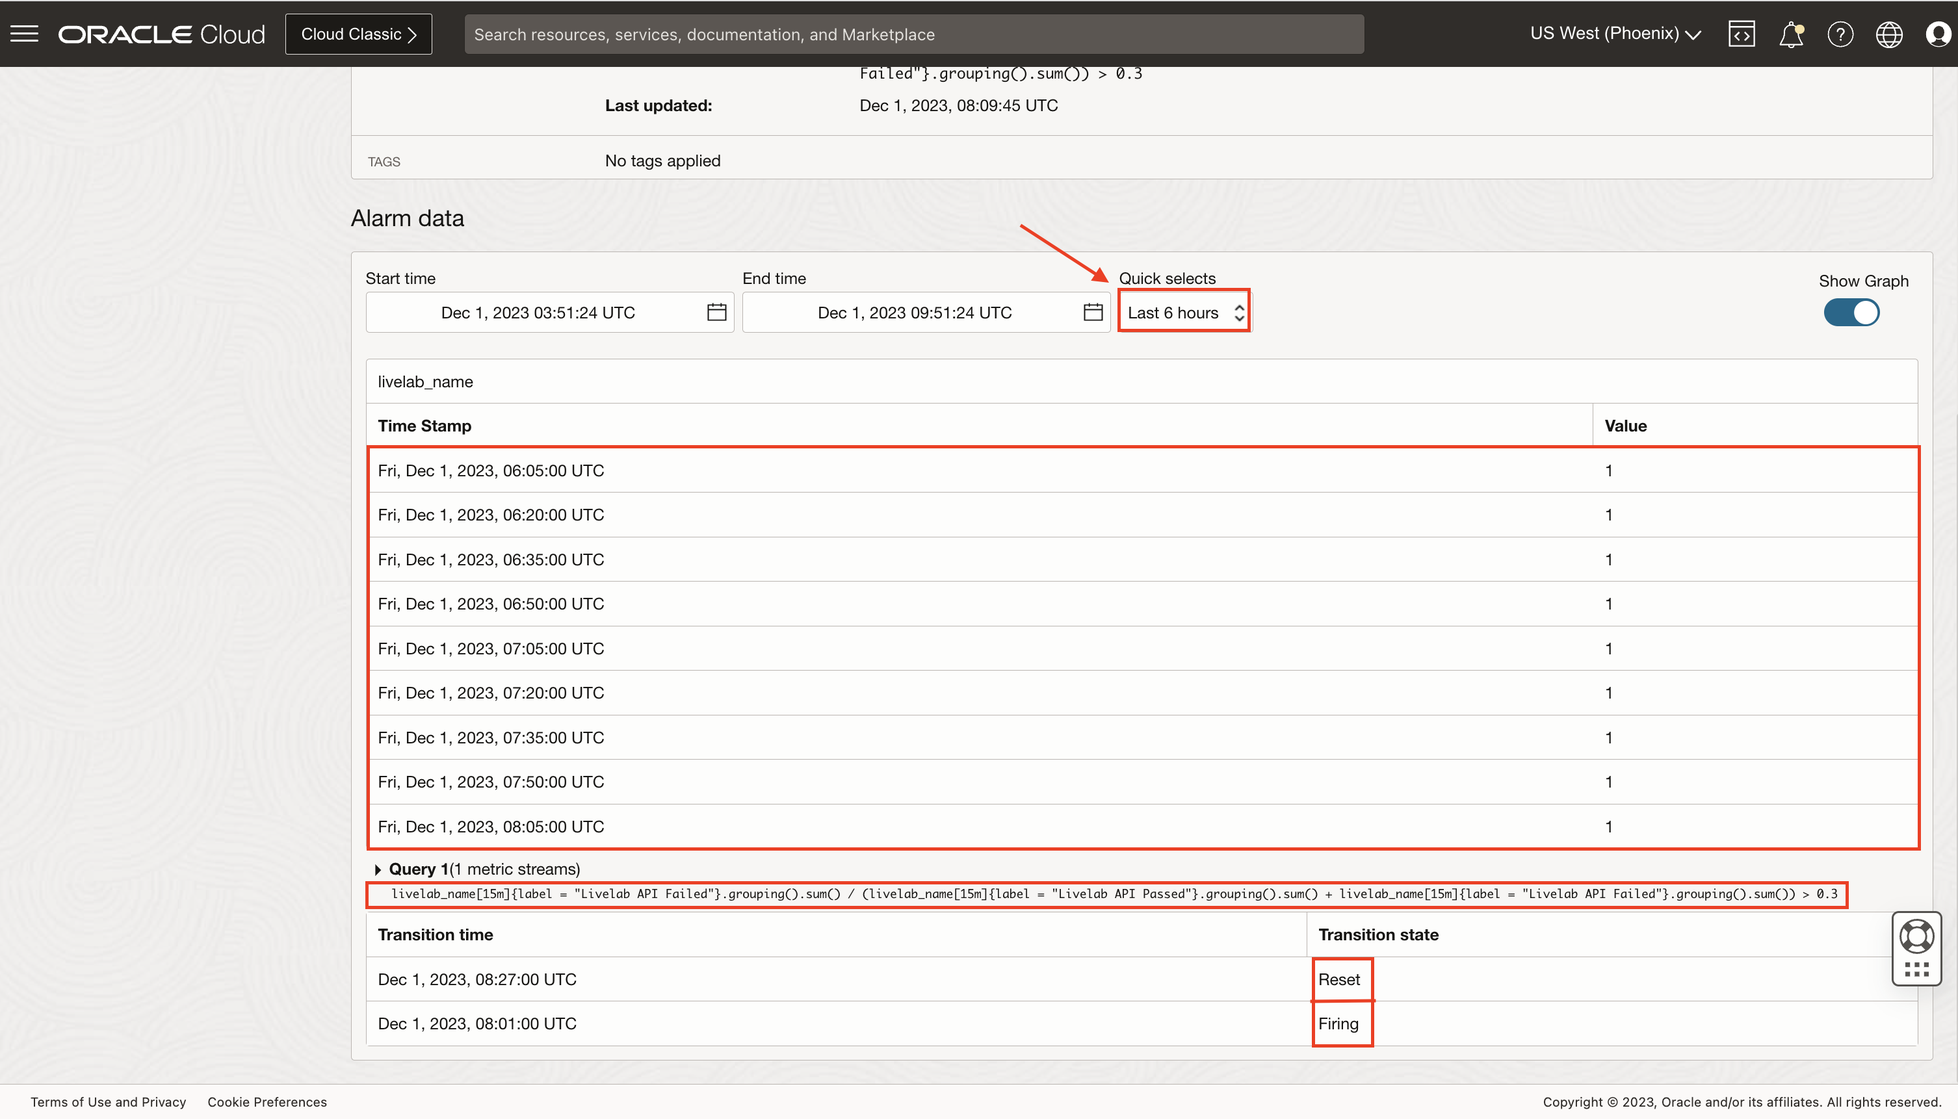
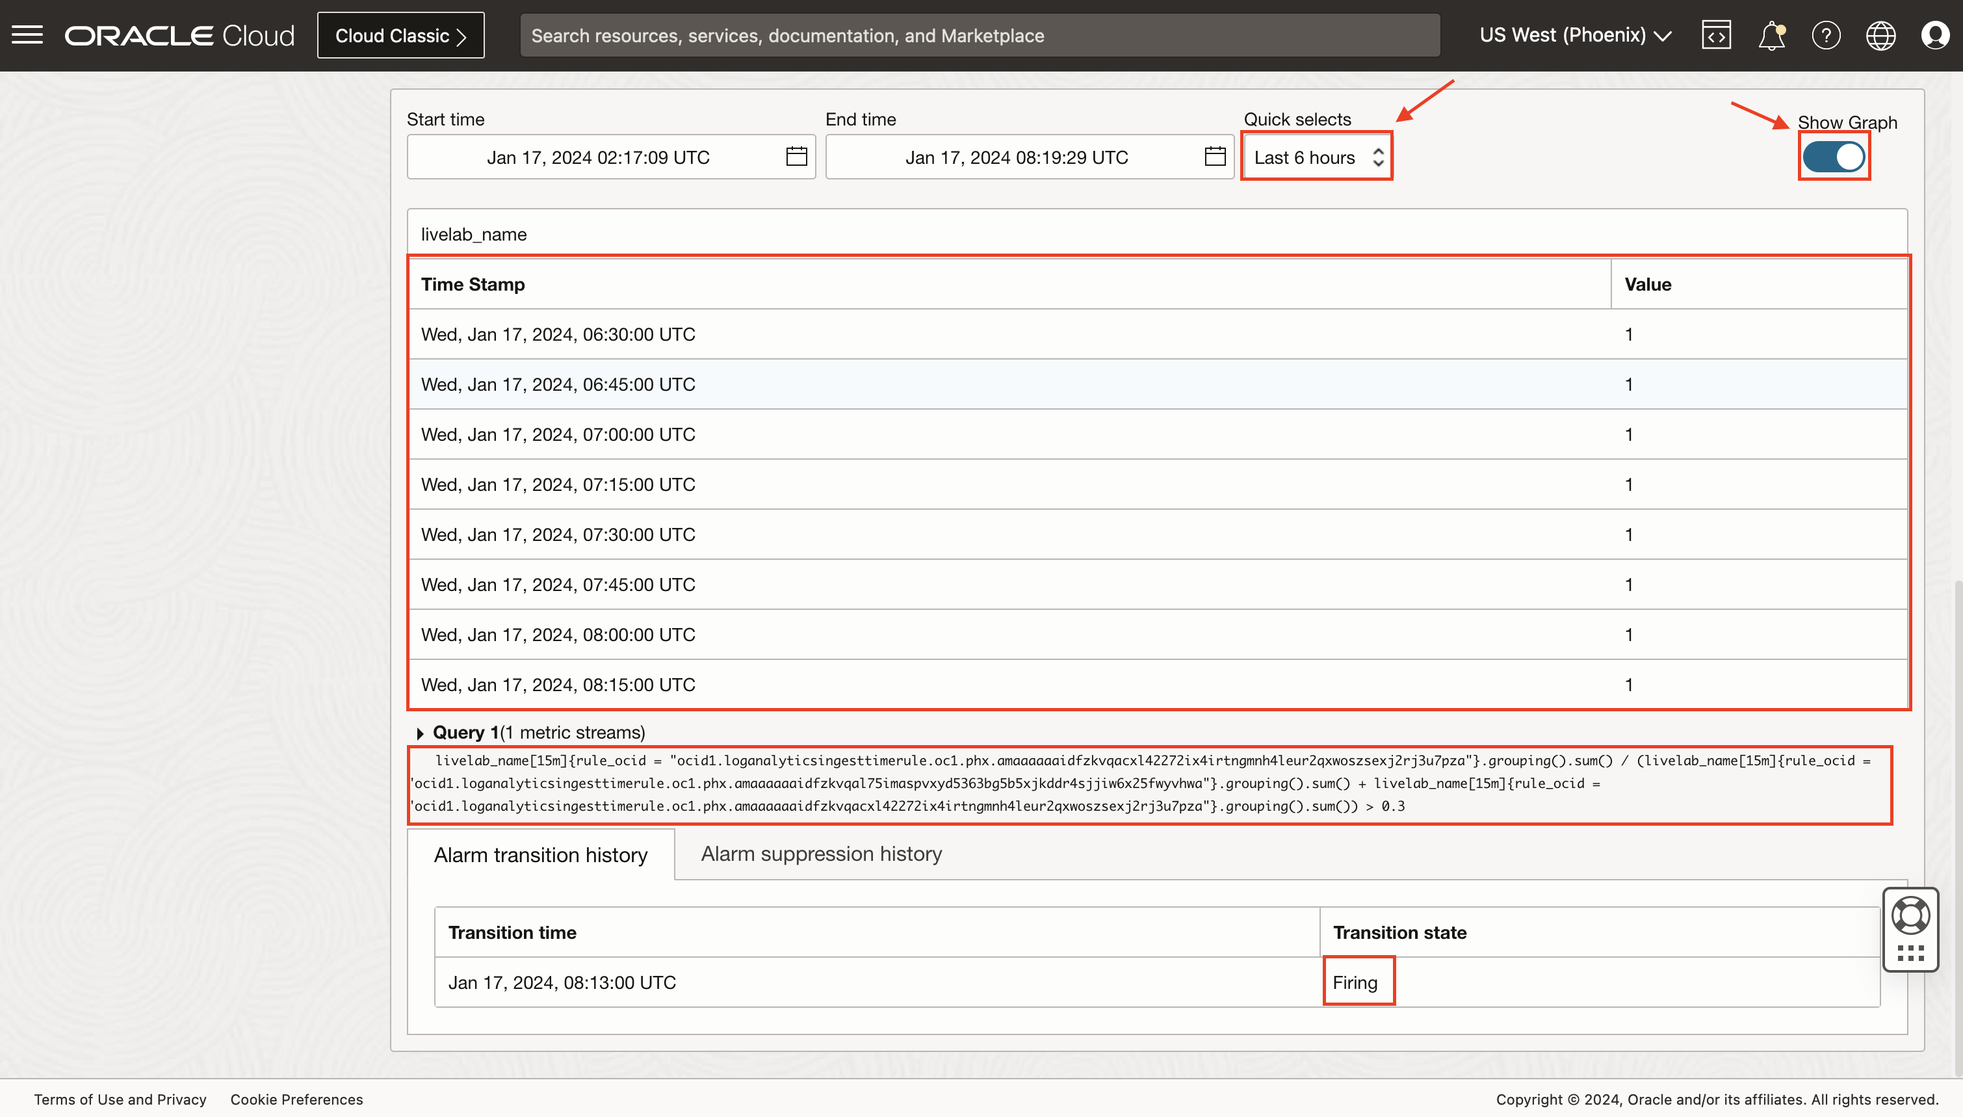
Alarm changes

diff --git a/logging-analytics/alarms-detection-rules-la/create-and-verify-alarm/create-and-verify-alarm.md b/logging-analytics/alarms-detection-rules-la/create-and-verify-alarm/create-and-verify-alarm.md
@@ -31,43 +31,34 @@ The detected events can emit metrics to the Monitoring service. Managing alarms 
 
 ## Task 2: Create an Alarm
 
-1. There are 2 two ways to navigate to **Create Alarm Page**:
+1. Navigate to **Create Alarm Page**:
 
-    ### **Option 1:**
+    * From **Navigation Menu** ![Navigation menu](images/navigation-menu.png) > **Observability & Management** > **Logging Analytics** > **Administration** > **Detection Rules box** > **Center of box**.
+    ![Navigate to administration overview](images/navigate-administration-overview.png)
+    ![Navigate to detection rules](images/navigate-detection-rule.png)
 
-    From **Navigation Menu** ![Navigation menu](images/navigation-menu.png) > **Observability & Management** > **Monitoring** > **Alarm Status**.
+    * For example, select **Livelab\_detection\_rule**, made in [How do I create and trigger an ingest time detection rule in Logging Analytics?](?lab=sprint-create-and-trigger-ingest-time-detection-rule).
+        ![detection-rule-page](images/detection-rule-page.png)
 
-    * Here, all the alarms fired by the events in Logging Analytics are consolidated. The table displays the alarm name, its severity, the time when it was triggered, and whether it is suppressed or not.
-    * Select the **Compartment** of your alarms in the **Scope section**.
-    * Click on the **Create Alarm**. The Create Alarm dialog box opens.
-    ![Navigate to alarm](images/alarm-navigation.gif)
+    * Click on the **Create Alarm** button, as seen in the figure. The Create Alarm dialog box opens.
+    ![Create alarm button](images/create-alarm-button.png)
 
-    ### **Option 2:**
+2. Specify the **Alarm name**. For example, **"Livelab_alarm"**.
 
-    * After creating a detection rule, you will land on detection rules page, where you will able to see all the detection rules. Click on the desired detection rule. You can refer to [Create and Trigger a Ingest Time Detection Rule](?lab=create-and-trigger-ingest-time-detection-rule#Task3:CreateIngestTimeDetectionRule) or [Create a Scheduled Search Detection Rule](?lab=create-scheduled-search-detection-rule).
-
-    * For example, select **Livelab\_detection\_rule**, made in [Create and Trigger a Ingest Time Detection Rule](?lab=create-and-trigger-ingest-time-detection-rule#Task3:CreateIngestTimeDetectionRule).
-    ![detection-rule-page](images/detection-rule-page.png)
-
-2. Click on the **Create Alarm** button, as seen in the figure. The Create Alarm dialog box opens.
-![Create alarm button](images/create-alarm-button.png)
-
-3. Specify the **Alarm name**. For example, **"Livelab_alarm"**.
-
-4. For **Alarm severity**, select the perceived type of response required when the alarm is in the firing state. There are four options for it:
+3. For **Alarm severity**, select the perceived type of response required when the alarm is in the firing state. There are four options for it:
     * Critical (by default)
     * Error
     * Warning
     * Info
 
-5. (Optional) For **Alarm body**, enter the human-readable content of the notification.
+4. (Optional) For **Alarm body**, enter the human-readable content of the notification.
 It is recommended to guide operators in resolving the alarm condition.
 
-6. (Optional) In the **Tags (optional)** area, enter one or more tags for the alarm.
+5. (Optional) In the **Tags (optional)** area, enter one or more tags for the alarm.
 If you have permission to create a resource, you can also apply free-form tags to that resource. To apply a defined tag, you must have permission to use the tag namespace. If you're unsure whether to apply tags, skip this option or ask an administrator. You can apply tags later.
 ![Define alarm and tags](images/define-alarm-and-tags.png)
 
-7. In the **Metric description** area, enter values to specify the metric to evaluate for the alarm.
+6. In the **Metric description** area, enter values to specify the metric to evaluate for the alarm.
 
     1. **Compartment:** Select the compartment containing the resources that emit the metrics evaluated by the alarm. The selected compartment is also the storage location of the alarm. By default, the first accessible compartment is selected.
     2. **Metric namespace:** Select the service or application that emits the metrics for the resources you want to monitor. The Metric namespace list shows metric namespaces for the selected compartment. You selected **"**livelabmetricnamespace"**, which you created while creating a detection rule.
@@ -90,21 +81,24 @@ If you have permission to create a resource, you can also apply free-form tags t
 
     ![Metric description](images/metric-description.png)
 
-8. In the **Metric dimensions** area, specify optional filters to narrow the metric data that's evaluated.
+7. In the **Metric dimensions** area, specify optional filters to narrow the metric data that's evaluated.
     * **Dimension value:** Select the value to use for the specified dimension.
     * **Additional dimension:** Add another name-value pair for a dimension, as needed.
     * **Aggregate metric streams:** Select this check box to return the combined value of all metric streams for the selected statistic.
-Let's say we provide dimension name as **"label"**, which has Dimension value as **"AuthError_Livelabs"**.
-![metric-dimension](images/metric-dimension.png)
 
-9. In the **Trigger rule** area, specify the condition that must be satisfied for the alarm to be in the firing state.
+    Let's say we provide an extra dimension name as **"label"**, which has Dimension value as **"AuthError_Livelabs"**.
+    ![Metric dimension](images/metric-dimension.png)
+
+    >**NOTE :** Metric dimension must have **"rule_ocid"** as one dimension or else this alarm will not be of Logging Analytics and will not show in firing alarm page.
+
+8. In the **Trigger rule** area, specify the condition that must be satisfied for the alarm to be in the firing state.
     * **Operator:** Select the operator to use in the condition threshold.
     * **Value:** Enter the value to use for the condition threshold. For the between and outside operators, enter both values for the range.
     * **Trigger delay minutes:** Enter the number of minutes the condition must be maintained before the alarm is in the firing state.
     Let's say, you have selected operator as **"greater than or equal"**, value as **"30"**, and trigger delay minutes as **"1"**. So, the alarm will be triggered when the count of "AuthError_Livelabs" is greater than or equal to 30 with a delay of 1 minute.
 ![Trigger rule](images/trigger-rule.png)
 
-10. In the **Destination area** under **Define alarm notifications**, select the provider of the destination to use for alarm notifications.
+9. In the **Destination area** under **Define alarm notifications**, select the provider of the destination to use for alarm notifications.
     1. **Destination service:** Select one of the following values:
         * **Notifications:** Send alarm notifications to a topic. Each subscription in the topic receives an alarm message.
         * **Streaming:** Send alarm messages to a stream.
@@ -124,22 +118,22 @@ Let's say we provide dimension name as **"label"**, which has Dimension value as
             6. SMS: Select the country for the phone number, and then enter the phone number.
 ![Define alarm notifications](images/define-alarm-notifications.png)
 
-11. For **Message grouping**, select one of the following options.
+10. For **Message grouping**, select one of the following options.
     * **Group notifications across metric streams:** Collectively track metric status across all metric streams. Send a message when metric status across all metric streams changes.
     * **Split notifications per metric stream:** Individually track metric status by metric stream. Send a message when metric status for each metric stream changes.
 
-12. For **Message Format**, select an option for the appearance of messages you receive from this alarm (for Notifications only).
+11. For **Message Format**, select an option for the appearance of messages you receive from this alarm (for Notifications only).
     * **Send formatted messages:** Simplified, user-friendly layout. To view supported subscription protocols and message types for formatted messages (options other than Raw), see Friendly formatting.
     * **Send Pretty JSON messages (raw text with line breaks):** JSON with new lines and indents.
     * **Send raw messages:** Raw JSON blob.
 
-13. (Optional) If you want to receive notifications at regular intervals when the alarm is firing, select **Repeat notification?** and then select **Notification frequency** to wait before resending the notification.
+12. (Optional) If you want to receive notifications at regular intervals when the alarm is firing, select **Repeat notification?** and then select **Notification frequency** to wait before resending the notification.
 (Optional) To suppress evaluations and notifications for a specified length of time, select **Suppress notifications**. This option helps avoid alarm notifications during system maintenance periods. Specify a start time, end time, and an optional description.
 
-14. (Optional) To save the alarm without starting to evaluate metric data, clear the **Enable this alarm?** check box.
+13. (Optional) To save the alarm without starting to evaluate metric data, clear the **Enable this alarm?** check box.
 ![Message and notification](images/message-and-notification.png)
 
-15. Click **Save alarm**.
+14. Click **Save alarm**.
 
 The **Alarm Definitions** page lists the new alarm. If the alarm is enabled, then Monitoring begins evaluating the configured metric, sending alarm messages when the metric data satisfies the trigger rule.
 
@@ -190,15 +184,18 @@ To verify the alarm, you need to upload log records, which will be parsed by the
 
 ## Task 4: Verify an Alarm
 
-1. From **Navigation Menu** ![navigation-menu](images/navigation-menu.png) > **Observability & Management** > **Monitoring** > **Alarm Definitions**.
-![alarm-def-navigation](images/alarm-def-navigation.png)
+1. From **Navigation Menu** ![Navigation menu](images/navigation-menu.png) > **Observability & Management** > **Logging Analytics** > **Administration** > **Alarms box**.
+    ![Alarms information](images/alarms-info.png)
 
-2. Click on **Livelab\_alarm**.
+    >**NOTE :** Wait for 1-2 minutes, to trigger an alarm after uploading the file, keep on refreshing the page.
+
+2. **Firing alarm** page will appear. It will show all fired alarms of Logging Analytics. Click on **Livelab\_alarm**.
+    ![Firing alarm information](images/firing-alarm-info.png)
 
 3. All the information regarding the alarm will be shown there. You can change **Quick select** based on the requirement. The graph will show the details. You can hover over the graph know in details. Click on **Show Data Table** to see the timestamp and value.
-![Triggered alarm graph](images/triggered-alarm-graph.png)
+![Triggered alarm graph](images/triggered-alarm.png)
 
-4. Details of logs can be seen from the last two hours. Your threshold value was 30. The value of **AuthError_Livelabs** label can be seen every 15 minutes from 12:15:00 UTC to 14:00:00 UTC. Initially, the alarm was in **Ok** state, then at 13:57:00 UTC, the alarm went into firing state. After one minute of delay, it was reset and changed to **Ok** state, which means it is ready to get triggered.
+4. Details of logs can be seen from the last six hours. Your threshold value was 30. The value of **AuthError_Livelabs** label can be seen every 15 minutes from 09:00:00 UTC to 11:15:00 UTC. Initially, the alarm was in **Ok** state, then the alarm went into firing state.
 ![Triggered alarm table](images/triggered-alarm-table.png)
 
 5. Hence, the alarm is verified.

diff --git a/logging-analytics/alarms-detection-rules-la/unsuccessful-food-orders/unsuccessful-food-orders.md b/logging-analytics/alarms-detection-rules-la/unsuccessful-food-orders/unsuccessful-food-orders.md
@@ -71,44 +71,48 @@ Create two ingest time detection rules, as discussed in [Create and Trigger a In
     * **Rule name:** Livelab Detect Passed API.
     * **Metric Namespace:** livelabmetricnamespace.
     * **Metric Name:** livelab_name.
-![detection-rule-1](images/detection-rule-1.png)
+![Passed APIs detection rule](images/passed-apis-detection-rule.png)
     * Click on **Create detection rule**.
 
 2. Other rule for detecting **Livelab Detect Failed API**. Fields to be filled in Create detection rule page:
     * **Rule name:** Livelab Detect Failed API.
     * **Metric Namespace:** livelabmetricnamespace.
     * **Metric Name:** livelab_name.
-![detection-rule-2](images/detection-rule-2.png)
+![Failed APIs detection rule](images/failed-apis-detection-rule.png)
     * Click on **Create detection rule**.
 
-3. Make sure that Metric Namespace and Metric Name remains the same throughout the task, or else results may not appear.
+>**NOTE :** Make sure that Metric Namespace and Metric Name remains the same throughout the task, or else results may not appear.
 
 ## Task 3: Create an Alarm
 
-1. Navigate to **Create Alarm page** as discussed in Option 1 of [Create an Verify an Alarm](?lab=create-and-verify-alarm#Task2:CreateanAlarm).
+1. Navigate to **Create Alarm page** as discussed in [Create an Verify an Alarm](?lab=create-and-verify-alarm#Task2:CreateanAlarm) using any of the detection rule made above.
 
 2. Provide alarm name as **Livelab Failed APIs more than 30%**. Click on **Switch to Advanced Mode**, as a complex query will be required, using two labels from the detection rule to create this alarm.
-![alarm-adv-mode](images/alarm-adv-mode.png)
+![Alarm advanced mode](images/alarm-adv-mode.png)
 
 3. Make sure that the compartment and metric name are the same as given for detection rules. Inside the query editor, paste this query:
 
     ```text
-    <copy>livelab_name[15m]{label = "Livelab API Failed"}.grouping().sum() / (livelab_name[15m]{label = "Livelab API Passed"}.grouping().sum() + livelab_name[15m]{label = "Livelab API Failed"}.grouping().sum()) > 0.3</copy>
+    <copy>livelab_name[15m]{rule_ocid = "<Detection rule ocid detecting Livelab API Failed label>"}.grouping().sum() / (livelab_name[15m]{rule_ocid = "<Detection rule ocid detecting Livelab API Passed label>"}.grouping().sum() + livelab_name[15m]{rule_ocid = "<Detection rule ocid detecting Livelab API Failed label>"}.grouping().sum()) > 0.3</copy>
     ```
+
+    Copy the value of ocids of respective detection rule and replace it in above query. The value of ocid can be found in the **Detection Rule** created.
+
+4. From **Navigation Menu** > **Observability & Management** > **Logging Analytics** > **Administration** > **Detection Rules box** > **Center of box** > **Respective Detection rule** > **Copy the OCID**.
+
+    ![Detection rule ocid](images/detection-rule-ocid.png)
 
     This query is the condition when the alarm will trigger. Query implies if the total no of log records with failed labels divided by the total no of log records (failed labels and passed labels) is greater than 0.3 i.e. more than 30%, then the alarm will trigger.
 
-    ![alarm-query](images/alarm-query.png)
+    ![Alarm query](images/alarm-query.png)
 
-    Currently, no data is uploaded after creating the alarm, so the graph is empty. You can have a table view by clicking on **Show Data Table**.
+5. Now, **Define alarm notification** and select the **Destination service**, **compartment**, and **Topic**. If there are no existing topics, you can create a new one by clicking on **Create a topic**. For more information regarding these options, you can refer [Create an Verify an Alarm](?lab=create-and-verify-alarm#Task2:CreateanAlarm).
+![Alarm end](images/alarm-end.png)
 
-4. Now, **Define alarm notification** and select the **Destination service**, **compartment**, and **Topic**. If there are no existing topics, you can create a new one by clicking on **Create a topic**. For more information regarding these options, you can refer [Create an Verify an Alarm](?lab=create-and-verify-alarm#Task2:CreateanAlarm).
-![alarm-end](images/alarm-end.png)
+6. Click on **Save alarm**. **Alarm Definitions page** will show up, providing the details of alarm, with a **Ok** mark.
+![Alarm before triggering](images/alarm-before-triggering.png)
 
-5. Click on **Save alarm**. **Alarm Definitions page** will show up, providing the details of alarm, with a **Ok** mark.
-![alarm-before-triggering](images/alarm-before-triggering.png)
-
-6. Now, your alarm is ready. To test it, you will have to give some log records.
+7. Now, your alarm is ready. To test it, you will have to give some log records.
 
 ## Task 4: Upload a File
 
@@ -117,7 +121,7 @@ Create two ingest time detection rules, as discussed in [Create and Trigger a In
 2. You will use log records on which the **livelab\_mushop\_api\_logs** parser is created.
 
 3. Navigate to **OCI Cloud Shell**, as shown in the image.
-![oci-cloud-shell](images/oci-cloud-shell.png)
+![OCI cloud shell](images/oci-cloud-shell.png)
 
 4. Run the following commands in **OCI Cloud Shell**.
 
@@ -161,11 +165,19 @@ Create two ingest time detection rules, as discussed in [Create and Trigger a In
 
 1. The log records will also be parsed with the provided parser as the file is processed. All logs will be labelled as **Livelab Failed API** or **Livelab Passed API**. The alarm will check all the logs in interval of 15mins, runs it query, and be triggered as soon as the queries satisfy.
 
-2. Open **Navigation Menu** ![navigation-menu](images/navigation-menu.png) > **Observability & Management** > **Monitoring** > **Alarm Definitions** > **Livelab Failed APIs more than 30%** alarm. You will notice, the alarm has changed its state from **Ok** to **Firing**. A graph can be seen under **Alarm data** as shown in image. Click on **Show Data Table**
-    ![alarm-triggered-graph](images/alarm-triggered-graph.png)
+2. From **Navigation Menu** ![Navigation menu](images/navigation-menu.png) > **Observability & Management** > **Logging Analytics** > **Administration** > **Alarms box**.
+    ![Alarms information](images/alarms-info.png)
 
-3. From data table, you can clearly observe, the alarm has been triggered 5 times, in interval of 15 minutes, in last hour. Click on **Quick selects** dropdown, and change time to **Last 6 hours**. By observing the table, it can be observed that for the uploaded logs, the alarm triggered 9 times, and sent a notification to selected destination.
-    ![alarm-triggered-table](images/alarm-triggered-table.png)
+    >**NOTE :** Wait for 1-2 minutes, to trigger an alarm after uploading the file, keep on refreshing the page.
+
+3. **Firing alarm** page will appear. It will show all fired alarms of Logging Analytics. Click on **Livelab Failed APIs more than 30%** alarm.
+    ![Firing alarm information](images/firing-alarm-info.png)
+
+4. The alarm has changed its state from **Ok** to **Firing**. A graph can be seen under **Alarm data** as shown in image. Click on **Show Data Table**
+    ![Fired alarm](images/fired-alarm.png)
+
+5. Click on **Quick selects** dropdown, and change time to **Last 6 hours**. From data table, you can clearly observe, the alarm has been triggered 8 times, in interval of 15 minutes, in last 6 hours and sent a notification to selected destination.
+    ![Alarm triggered table](images/alarm-triggered-table.png)
 
     You can also observe, that the alarm was initially in **Ok** state, then it went to **Firing** state, after some time, it will go to **Reset** state, waiting to go to **Firing** state again.
 

diff --git a/logging-analytics/alarms-detection-rules-la/create-and-trigger-ingest-time-detection-rule/create-and-trigger-ingest-time-detection-rule.md b/logging-analytics/alarms-detection-rules-la/create-and-trigger-ingest-time-detection-rule/create-and-trigger-ingest-time-detection-rule.md
@@ -49,8 +49,9 @@ Let's say you want to detect whenever you have an authentication error in your l
 
 You need a log source and associated entity to create a detection rule. You also need a specific parser corresponding to the type of logs that will be collected and parsed. You also need a label associated with particular content of log records so you can create a detection rule on that specific label.
 
-1. From **Navigation Menu** ![Navigation menu](images/navigation-menu.png) > **Observability & Management** > **Logging Analytics** > **Administration** > **Detection Rules box** > **Create Detection Rule**.
-![Navigate to detection rules](images/detection-rules-navigation.gif)
+1. From **Navigation Menu** ![Navigation menu](images/navigation-menu.png) > **Observability & Management** > **Logging Analytics** > **Administration** > **Detection Rules box** > **Create rule**.
+![Navigate to administration overview](images/navigate-administration-overview.png)
+![Administration overview](images/administration-overview.png)
 
 2. Create detection rule dialog box opens. Click on **Ingest time detection rule**.
 ![Create detection rule dialog box](images/create-detection-rule-dialog-box.png)
